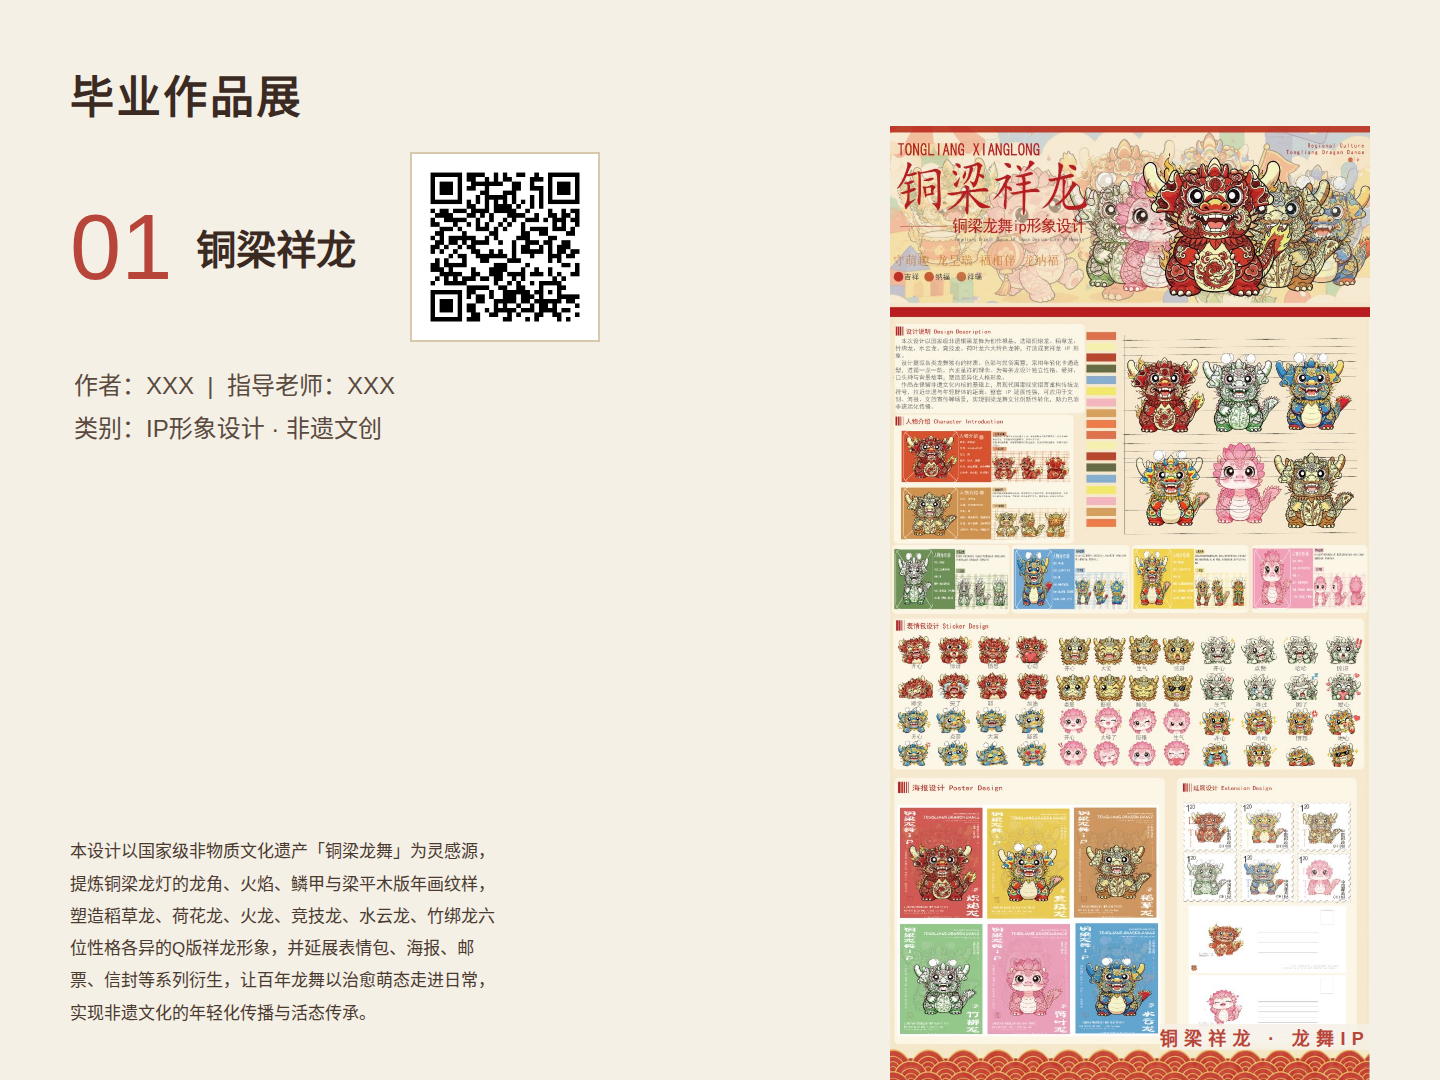
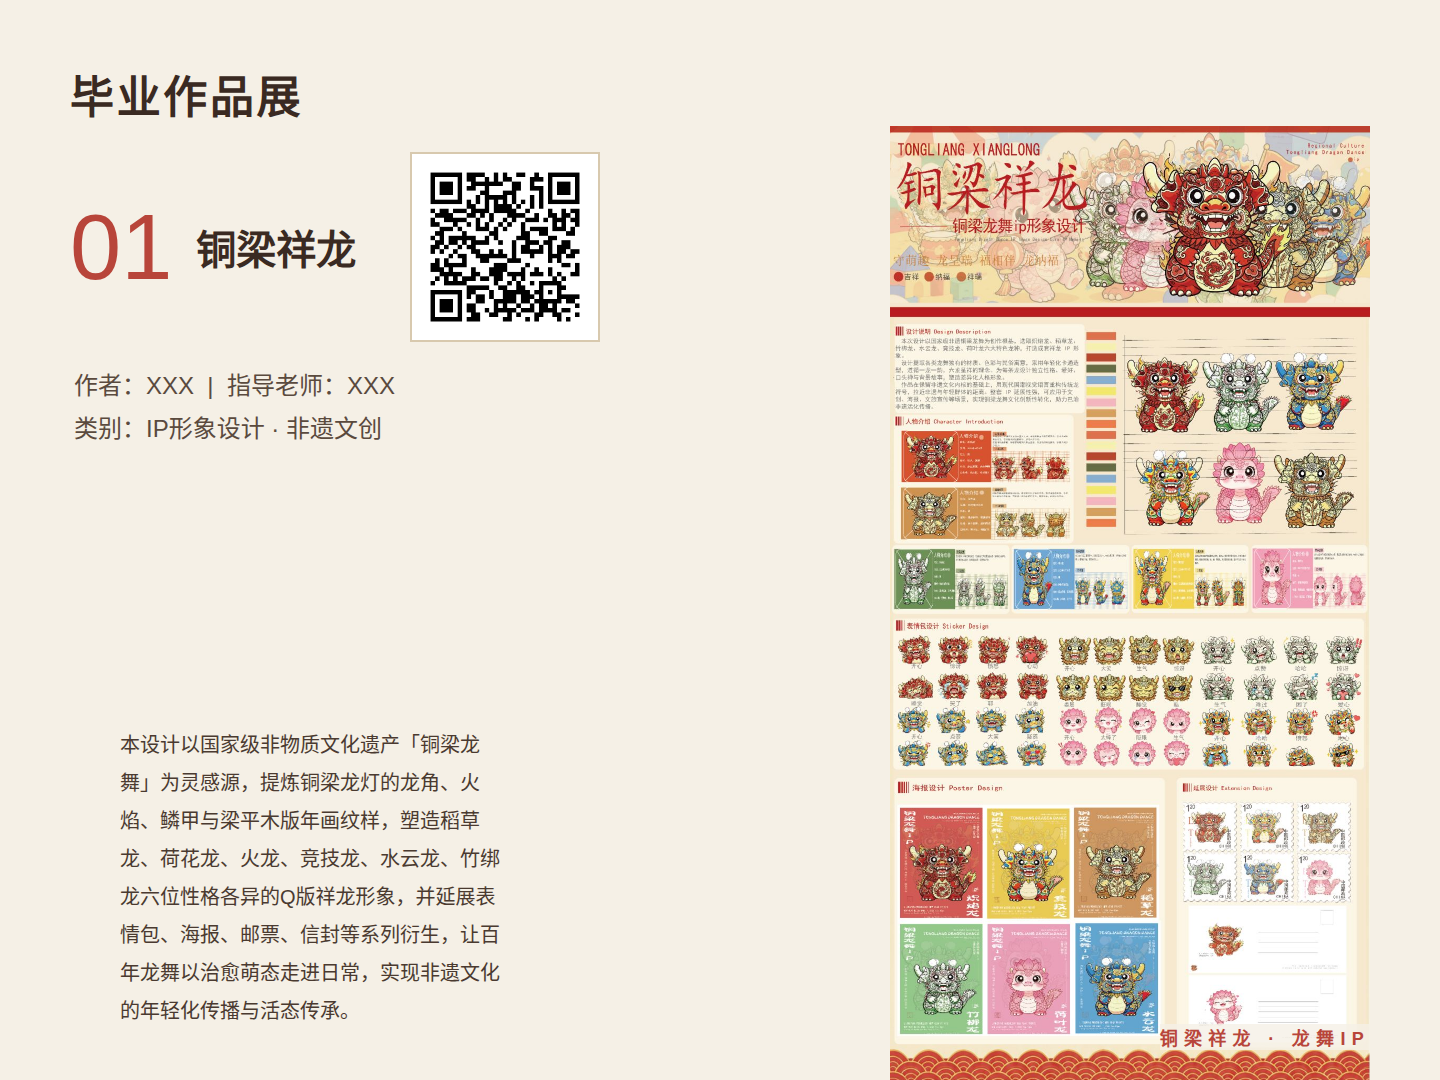
介绍文字放大并右移

Changed region(s): [[0.0312, 0.6722, 0.3438, 0.9472]]

diff --git a/thumbnail.html b/thumbnail.html
@@ -17,7 +17,7 @@ h1{font-size:44px;font-weight:900;letter-spacing:.06em}
 .num .n{font-size:92px;font-weight:200;color:#b8453a;line-height:1}
 .num .t{font-size:40px;font-weight:900;white-space:nowrap}
 .meta{margin:22px 0 0 4px;font-size:24px;color:#5a4a3e;line-height:1.8}
-.desc{position:absolute;left:70px;bottom:36px;width:430px;font-size:17px;line-height:1.9;padding-bottom:14px;font-weight:300;color:#4a3a30}
+.desc{position:absolute;left:120px;bottom:36px;width:380px;font-size:20px;line-height:1.9;padding-bottom:14px;font-weight:300;color:#4a3a30}
 .right{flex:1;display:flex;justify-content:flex-end;align-items:flex-start}
 .right img{max-height:960px;object-fit:contain}
 .mark{position:absolute;right:70px;bottom:30px;font-size:18px;letter-spacing:.35em;color:#b8453a;font-weight:700;background:rgba(245,240,230,.8)}
